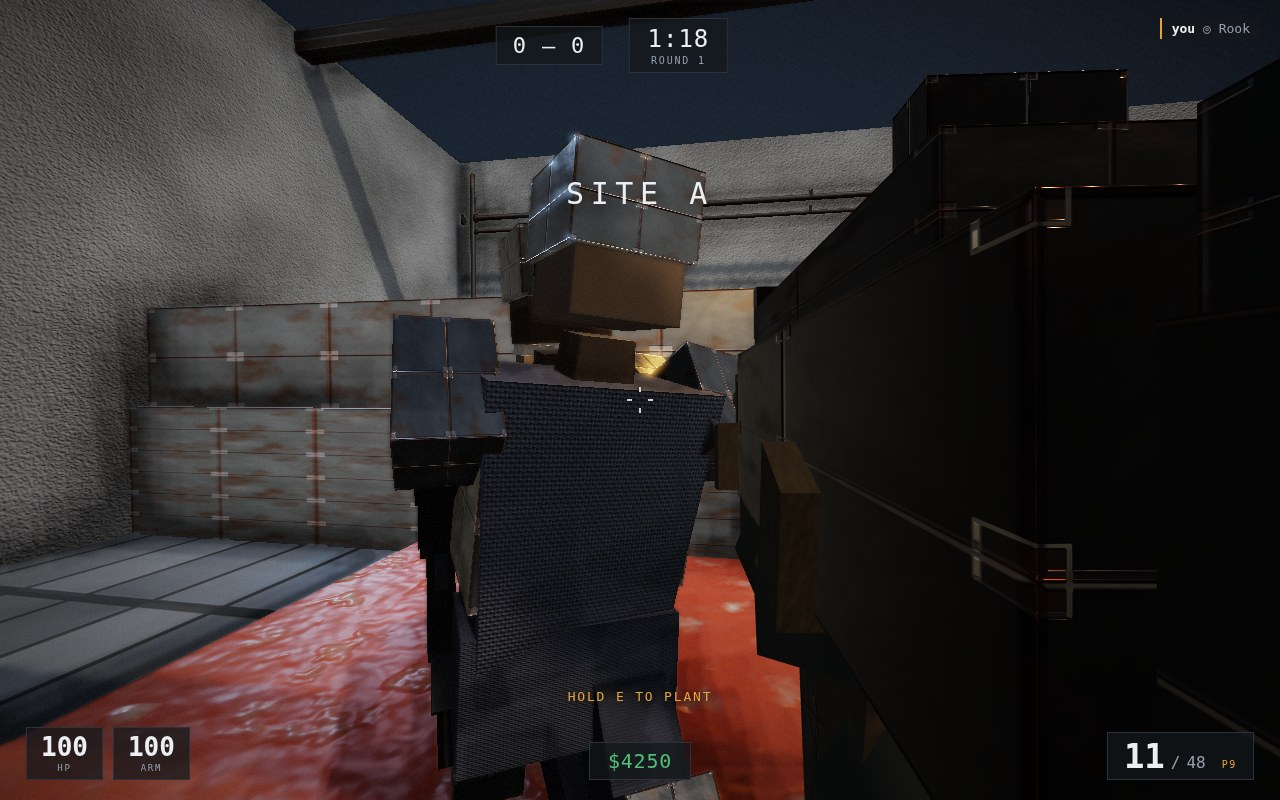
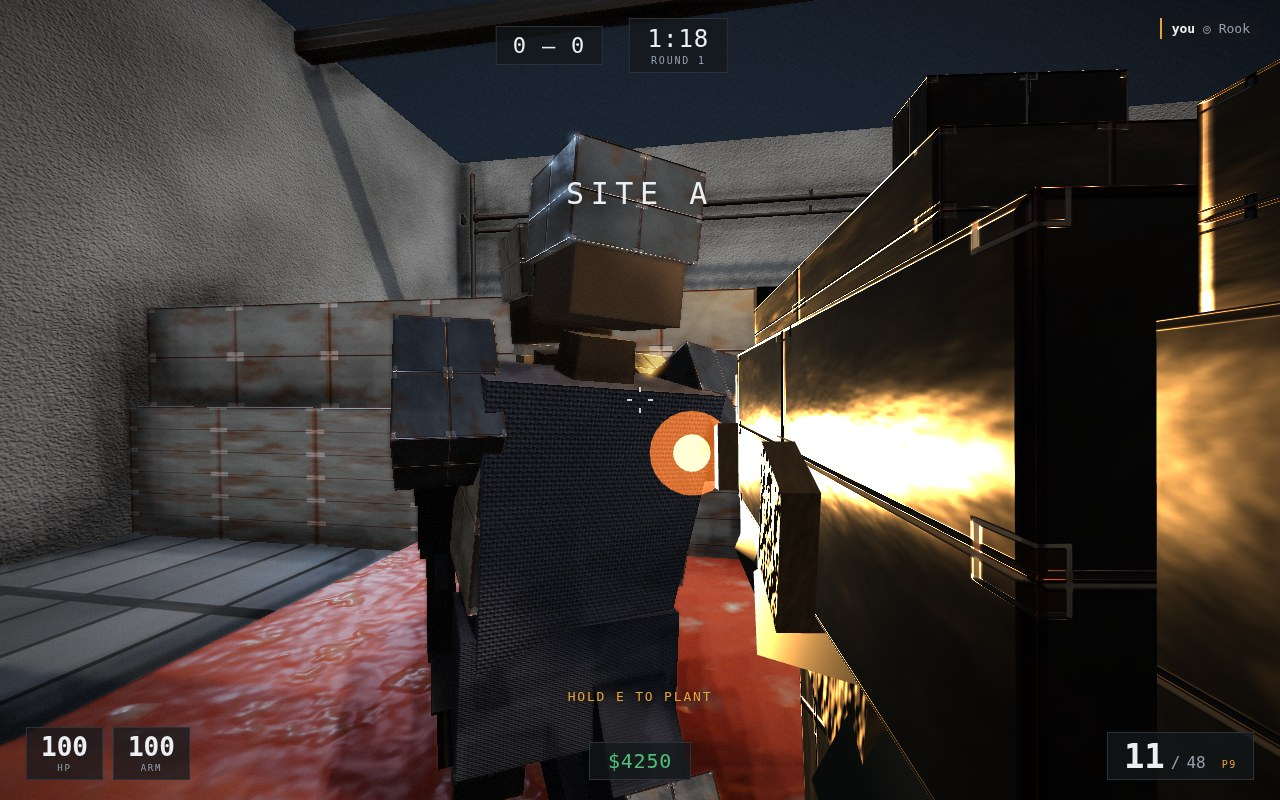
muzzle flash ke view scene: keliatan di depan gun, ukuran proporsional

diff --git a/game/src/effects.js b/game/src/effects.js
@@ -14,7 +14,11 @@ import * as THREE from 'three';
 const SPARK_COUNT = 240;
 const DECAL_COUNT = 48;
 
-export function createEffects(scene) {
+export function createEffects(scene, viewScene = null) {
+  // The muzzle work belongs to the viewmodel scene when one is given: that scene is drawn after the
+  // post chain with the depth buffer cleared, so the flash is guaranteed to sit on top of the frame
+  // instead of being swallowed by the world's own pass (or occluded by a wall the muzzle pokes into).
+  const flashScene = viewScene ?? scene;
   // --- sparks: one Points cloud, drawn up to `live` -------------------------
   const sparkPos = new Float32Array(SPARK_COUNT * 3);
   const sparkCol = new Float32Array(SPARK_COUNT * 3);
@@ -75,16 +79,33 @@ export function createEffects(scene) {
   }
   let flashCursor = 0;
 
-  const flashQuadMat = new THREE.MeshBasicMaterial({
-    color: 0xffd490, transparent: true, opacity: 0, blending: THREE.AdditiveBlending,
-    depthWrite: false, side: THREE.DoubleSide,
+  // The flash itself is two additive spheres: a small hot core and a larger soft halo.
+  //
+  // A camera-facing quad is the usual choice, but a quad seen edge-on vanishes, and the flash has to
+  // read from whatever angle the shot frame happens to catch. A sphere looks identical from every
+  // direction, so there is nothing to orient and nothing that can disappear.
+  const flashGroup = new THREE.Group();
+  // A local light so the flash actually spills onto the weapon and the player's hands.
+  const flashLight = new THREE.PointLight(0xffd9a0, 0, 6, 2);
+  flashGroup.add(flashLight);
+  const coreMat = new THREE.MeshBasicMaterial({
+    color: 0xfff0d0, transparent: true, opacity: 0, blending: THREE.AdditiveBlending, depthWrite: false,
   });
-  const flashQuad = new THREE.Mesh(new THREE.PlaneGeometry(0.5, 0.5), flashQuadMat);
-  flashQuad.visible = false;
-  scene.add(flashQuad);
+  const haloMat = new THREE.MeshBasicMaterial({
+    color: 0xffb45c, transparent: true, opacity: 0, blending: THREE.AdditiveBlending, depthWrite: false,
+  });
+  // Sized against the viewmodel camera's frustum: at the muzzle's depth the frame's half-height is
+  // ~0.34, so a 0.045 halo reads as a ~7%-of-screen pop. The earlier 0.20 overflowed the frame and
+  // whited out the centre of the picture.
+  const flashCore = new THREE.Mesh(new THREE.SphereGeometry(0.020, 12, 10), coreMat);
+  const flashHalo = new THREE.Mesh(new THREE.SphereGeometry(0.045, 14, 12), haloMat);
+  flashGroup.add(flashCore, flashHalo);
+  flashGroup.visible = false;
+  flashScene.add(flashGroup);
   let quadTtl = 0;
+  let quadLife = 0;
 
-  function muzzleFlash(point, dir, strength = 1) {
+  function muzzleFlash(point, dir, strength = 1, viewPoint = null) {
     const slot = flashLights[flashCursor];
     flashCursor = (flashCursor + 1) % flashLights.length;
     slot.light.position.copy(point);
@@ -93,12 +114,16 @@ export function createEffects(scene) {
     slot.life = 0.05;
     slot.ttl = slot.life;
 
-    flashQuad.position.copy(point).addScaledVector(dir, 0.18);
-    flashQuad.quaternion.copy(cameraForwardQuat(dir));
-    flashQuad.scale.setScalar(0.75 * strength);
-    flashQuad.visible = true;
-    flashQuadMat.opacity = 0.95;
-    quadTtl = 0.045;
+    // The flash lives in the viewmodel scene when there is one, whose camera sits at the origin, so
+    // it takes its own coordinate rather than the world muzzle.
+    flashGroup.position.copy(viewPoint ?? point).addScaledVector(dir, 0.16);
+    flashGroup.scale.setScalar(1.0 + 0.35 * (strength - 1));
+    flashGroup.visible = true;
+    coreMat.opacity = 1.0;
+    haloMat.opacity = 0.75;
+    flashLight.intensity = 14 * strength;
+    quadLife = 0.075;
+    quadTtl = quadLife;
 
     // A few sparks out of the barrel, tinted hot.
     emitSparks(point, dir, 6, [1.0, 0.72, 0.32], 5.5);
@@ -162,7 +187,7 @@ export function createEffects(scene) {
   /** One shot's worth of everything: flash at the muzzle, tracer, sparks and a hole at the hit. */
   function gunshot(muzzle, hitPoint, hitNormal, opts = {}) {
     const dir = hitPoint ? hitPoint.clone().sub(muzzle).normalize() : new THREE.Vector3(0, 0, -1);
-    muzzleFlash(muzzle, dir, opts.strength ?? 1);
+    muzzleFlash(muzzle, dir, opts.strength ?? 1, opts.viewMuzzle ?? null);
     if (hitPoint) {
       tracer(muzzle, hitPoint);
       const n = hitNormal ?? dir.clone().negate();
@@ -206,11 +231,14 @@ export function createEffects(scene) {
       if (slot.ttl <= 0) slot.light.visible = false;
     }
 
-    // Flash quad.
+    // Flash spheres: fade fast, with the halo lingering slightly past the core.
     if (quadTtl > 0) {
       quadTtl -= dt;
-      flashQuadMat.opacity = Math.max(0, quadTtl / 0.045) * 0.95;
-      if (quadTtl <= 0) flashQuad.visible = false;
+      const k = Math.max(0, quadTtl / quadLife);
+      coreMat.opacity = k * k;
+      haloMat.opacity = 0.75 * k;
+      flashLight.intensity = 14 * k * k;
+      if (quadTtl <= 0) flashGroup.visible = false;
     }
 
     // Tracer.
@@ -230,7 +258,7 @@ export function createEffects(scene) {
     traceLive = 0;
     traceGeo.setDrawRange(0, 0);
     for (const slot of flashLights) { slot.ttl = 0; slot.light.visible = false; }
-    flashQuad.visible = false;
+    flashGroup.visible = false;
     for (const m of holes) m.visible = false;
   }
 
@@ -242,7 +270,8 @@ export function createEffects(scene) {
       sparksLive: sparkGeo.drawRange.count,
       sparksCursor: sparkCursor,
       flashesOn: flashLights.filter((s) => s.ttl > 0).length,
-      quadVisible: flashQuad.visible,
+      quadVisible: flashGroup.visible,
+      coreOpacity: coreMat.opacity,
       holesVisible: holes.filter((m) => m.visible).length,
       tracerSegments: traceGeo.drawRange.count / 2,
     };

diff --git a/game/src/main.js b/game/src/main.js
@@ -67,6 +67,9 @@ scene.background = new THREE.Color('#232a33');
 scene.fog = new THREE.Fog(new THREE.Color('#232a33'), 65, 130);
 const camera = new THREE.PerspectiveCamera(76, window.innerWidth / window.innerHeight, 0.05, 200);
 const muzzlePoint = new THREE.Vector3();
+// Where the muzzle sits inside the viewmodel scene, whose camera is at the origin. The gun rests at
+// (0.105, -0.02, REST_Z) with the barrel down -Z, so the flash belongs just past the barrel.
+const viewMuzzlePoint = new THREE.Vector3(0.115, -0.055, -0.62);
 scene.add(camera);
 
 // Image-based lighting. The metalness channel on every material is a lie without an environment to
@@ -193,7 +196,7 @@ const viewGun = new THREE.Group();
 
 // --- Systems ---
 const world = createWorld(scene);
-const effects = createEffects(scene);
+const effects = createEffects(scene, viewScene);
 const postfx = createPostFX(renderer, { ao: true, bloom: true });
 postfx.setCamera(camera);
 postfx.resize(window.innerWidth, window.innerHeight);
@@ -574,6 +577,17 @@ function runShot(name) {
     for (let i = 0; i < 24; i += 1) stepSim(FIXED_STEP);
     firePlayer();
     for (let i = 0; i < 3; i += 1) stepSim(FIXED_STEP);
+    // Second shot into the wall beside the bots, so the frame carries a flash, a tracer and a
+    // spark burst that face the camera rather than the one aimed away from it.
+    {
+      const wallDir = new THREE.Vector3(-0.35, -0.04, -0.94).normalize();
+      player.aimDirection(aimDir);
+      camera.getWorldPosition(eyePoint);
+      const fxMuzzle = eyePoint.clone().addScaledVector(aimDir, 0.55);
+      fxMuzzle.y -= 0.12;
+      const fxHit = eyePoint.clone().addScaledVector(wallDir, 4.2);
+      effects.gunshot(fxMuzzle, fxHit, wallDir.clone().negate(), { strength: 1.0, sparks: 22, viewMuzzle: viewMuzzlePoint });
+    }
     hud.kill('you', 'Rook', true);
     hud.banner('SITE A', 99);
     state.plHint = 'Hold E to plant';
